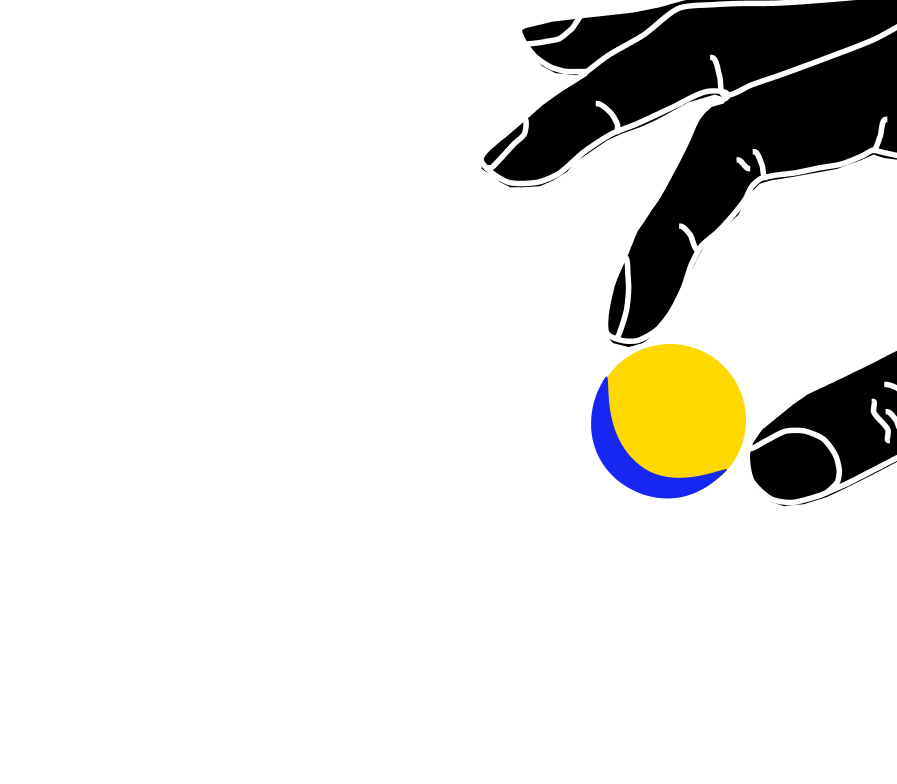
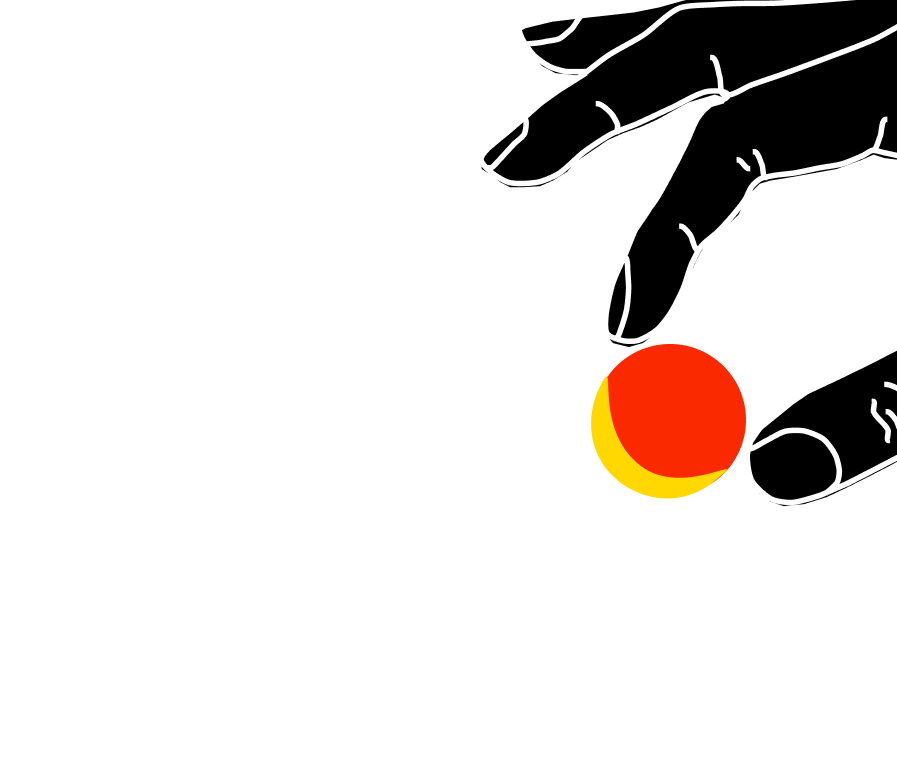
mm

Changed region(s): [[0.6555, 0.4286, 0.8428, 0.6429]]

diff --git a/mine.css b/mine.css
@@ -99,17 +99,9 @@ font-family: 'Montserrat', sans-serif;
   left: 0px;
 }
 
-.circle13 {
-  position: absolute;
-  z-index: 15;
-  top: 1130px;
-  left: 599px;
+.circle4:hover {
+filter: hue-rotate(125deg);
 }
-
-.circle13:hover {
-opacity: 0;
-}
-
 
 .square5 {
   position: absolute;
@@ -128,7 +120,7 @@ opacity: 0;
   color: white;
   font-weight: medium;
   padding: 33px 40px;
-  top: 2184px;
+  top: 2185px;
 
 }
 
@@ -140,6 +132,10 @@ opacity: 0;
   left: 660px;
 }
 
+.circle1:hover {
+filter: hue-rotate(270deg);
+}
+
 .circle2 {
   position: absolute;
   z-index: 10;
@@ -148,12 +144,20 @@ opacity: 0;
   left: 0px;
 }
 
+.circle2:hover {
+filter: hue-rotate(170deg);
+}
+
 .circle3 {
   position: absolute;
   z-index: 50;
   width: 210px;
   top: 1995px;
   left: 772px;
+}
+
+.circle3:hover {
+filter: hue-rotate(200deg);
 }
 
 
@@ -168,11 +172,12 @@ opacity: 0;
 }
 
 .planets {
-  display: none;
+  position: absolute;
   z-index: 10;
-  width: 830px;
-  top: 3220px;
-  left: -1050px;
+  top: 2250px;
+  left: -25px;
+  opacity: 0;
+
 }
 
 
@@ -181,7 +186,7 @@ opacity: 0;
   z-index: 50;
   width: 20px;
   color: white;
-  top: 1503px;
+  top: 1299px;
   left: 40px;
   font-size: 95px;
   font-weight: bold;
@@ -231,7 +236,7 @@ opacity: 0;
   position: absolute;
   z-index: 10;
   width: 600px;
-  top: 3463px;
+  top: 3362px;
   left: 385px;
 }
 
@@ -249,8 +254,12 @@ opacity: 0;
   position: absolute;
   z-index: 5;
   width: 116px;
-  top: 3463px;
+  top: 3361px;
   left: 866px;
+}
+
+.circle5:hover {
+filter: hue-rotate(160deg);
 }
 
 .circle6 {
@@ -261,12 +270,20 @@ opacity: 0;
   left: 24px;
 }
 
+.circle6:hover {
+filter: hue-rotate(320deg);
+}
+
 .circle7 {
   position: absolute;
   z-index: 5;
   width: 150px;
   top: 4266px;
   left: 520px;
+}
+
+.circle7:hover {
+filter: hue-rotate(130deg);
 }
 
 .glas2 {
@@ -401,28 +418,24 @@ opacity: 0;
 
   .circle1 {
     width: 153px;
-    height: 104px;
     top: 1684px;
     left: 622px;
   }
 
   .circle4 {
     top: 931px;
-    width: 120px;
     height: 145px;
     left: 0px;
   }
 
   .circle2 {
     width: 197px;
-    height: 180px;
     top: 1886px;
     left: 0px;
   }
 
   .circle3 {
     width: 227px;
-    height: 284px;
     top: 1859px;
     left: 797px;
   }
@@ -466,16 +479,19 @@ opacity: 0;
   }
 
   .planets {
-    width: 503px;
-    height: 682px;
-    top: 2320px;
-    left: -104px;
+    position: absolute;
+    width: 527px;
+    z-index: 20;
+    top: 2333px;
+    left: -125px;
+    opacity: 1;
+
   }
 
   .h6 {
     width: 20px;
     color: white;
-    top: 1861px;
+    top: 1298px;
     left: 421px;
     font-size: 90px;
     font-weight: bold;
@@ -498,26 +514,23 @@ opacity: 0;
   .hand4 {
     width: 485px;
     top: 3326px;
-    left: 544px;
+    left: 540px;
   }
 
   .circle5 {
     width: 116px;
-    height: 168px;
-    top: 3285px;
+      top: 3285px;
     left: 909px;
   }
 
   .circle6 {
     width: 215px;
-    height: 213px;
     top: 3155px;
     left: 24px;
   }
 
   .circle7 {
     width: 150px;
-    height: 150px;
     top: 3710px;
     left: 0px;
   }
@@ -554,6 +567,7 @@ opacity: 0;
     background-color: black;
     padding: 27px 40px;
     top: 4374px;
+    left: 0px;
   }
 
   .h7 {
@@ -713,6 +727,15 @@ opacity: 0;
     padding: 42px 69px;
     top: 2877px;
     left: 707px;
+  }
+
+  .planets {
+    position: absolute;
+    width: 727px;
+    z-index: 99;
+    top: 2177px;
+    left: -125px;
+    opacity: 1;
   }
 
 

diff --git a/3.3.html b/3.3.html
@@ -14,32 +14,19 @@
       <img class="logo" src="img/logo.png" alt="logo">
       <img class="hand1" src="img/hand 1.png" alt="">
       <img class="hand2" src="img/hand 2.png" alt="">
-      <img class="circle13"src="img/circle 13.png" alt="">
-      <img class="circle11"src="img/circle 11.png" alt="">
       <img class="circle1"src="img/circle 1.png" alt="">
-      <img class="circle8"src="img/circle 8.png" alt="">
       <img class="circle2"src="img/circle 2.png" alt="">
-      <img class="circle10"src="img/circle 10.png" alt="">
       <img class="circle3" src="img/circle 3.png" alt="">
-      <img class="circle9" src="img/circle 9.png" alt="">
       <img class="circle4"src="img/circle 4.png" alt="">
-      <img class="circle12"src="img/circle 12.png" alt="">
       <img class="smile"src="img/smile.png" alt="">
       <img class="planets" src="img/planets.png" alt="">
       <img class="hand3" src="img/hand 3.png" alt="">
       <img class="hand4"src="img/hand 4.png" alt="">
       <img class="circle5"src="img/circle 5.png" alt="">
-      <img class="circle14" src="img/circle 14.png" alt="">
-      <img class="circle15" src="img/circle 15.png" alt="">
-      <img class="circle16" src="img/circle 16.png" alt="">
-      <img class="circle17" src="img/circle 17.png" alt="">
-      <img class="circle18" src="img/circle 18.png" alt="">
       <img class="circle6"src="img/circle 6.png" alt="">
       <img class="circle7"src="img/circle 7.png" alt="">
       <img class="glas"src="img/glas.png" alt="">
       <img class="glas2"src="img/glas 2.png" alt="">
-      <img class="glas3"src="img/glas 3.png" alt="">
-      <img class="glas4"src="img/glas 4.png" alt="">
       <img class="smile1"src="img/smile.png" alt="">
       <p class="h4">Г. МОСКВА
       <br/>УЛ. МАЛАЯ ПИОНЕРСКАЯ 12</p>

diff --git a/index.html b/index.html
@@ -14,26 +14,16 @@
       <img class="logo" src="img/logo.png" alt="logo">
       <img class="hand1" src="img/hand 1.png" alt="">
       <img class="hand2" src="img/hand 2.png" alt="">
-      <img class="circle13"src="img/circle 13.png" alt="">
-      <img class="circle11"src="img/circle 11.png" alt="">
       <img class="circle1"src="img/circle 1.png" alt="">
-      <img class="circle8"src="img/circle 8.png" alt="">
       <img class="circle2"src="img/circle 2.png" alt="">
-      <img class="circle10"src="img/circle 10.png" alt="">
       <img class="circle3" src="img/circle 3.png" alt="">
-      <img class="circle9" src="img/circle 9.png" alt="">
       <img class="circle4"src="img/circle 4.png" alt="">
-      <img class="circle12"src="img/circle 12.png" alt="">
+      <img class="circle8"src="img/circle 4.png" alt="">
       <img class="smile"src="img/smile.png" alt="">
       <img class="planets" src="img/planets.png" alt="">
       <img class="hand3" src="img/hand 3.png" alt="">
       <img class="hand4"src="img/hand 4.png" alt="">
       <img class="circle5"src="img/circle 5.png" alt="">
-      <img class="circle14" src="img/circle 14.png" alt="">
-      <img class="circle15" src="img/circle 15.png" alt="">
-      <img class="circle16" src="img/circle 16.png" alt="">
-      <img class="circle17" src="img/circle 17.png" alt="">
-      <img class="circle18" src="img/circle 18.png" alt="">
       <img class="circle6"src="img/circle 6.png" alt="">
       <img class="circle7"src="img/circle 7.png" alt="">
       <img class="glas"src="img/glas.png" alt="">

diff --git a/2.css b/2.css
@@ -246,7 +246,7 @@ opacity: 0;
   position: absolute;
   z-index: 10;
   top: 2250px;
-  left: -125px;
+  left: -25px;
 
 }
 .h6 {
